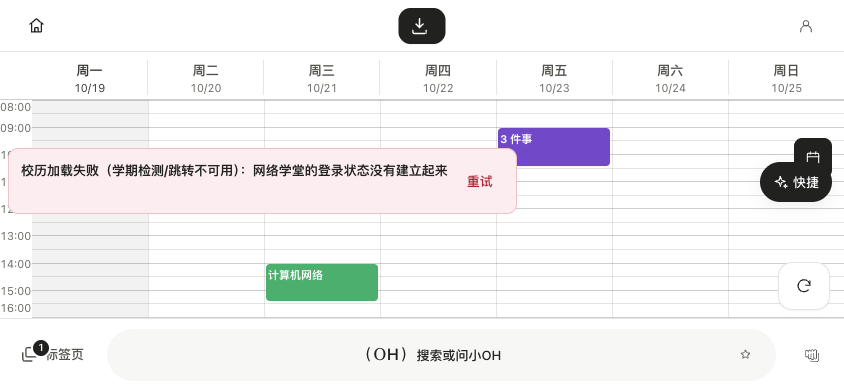
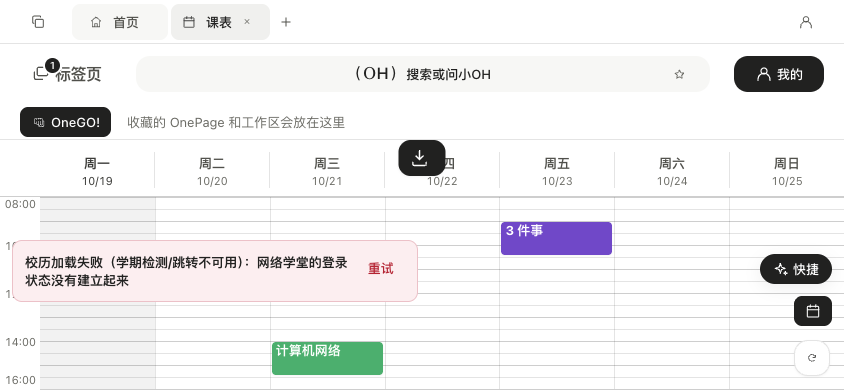
fix(mobile): 横屏手机切桌面形态；自由摆放默认 500%；缩放至 500%
用户：「这可不是电脑视图啊」「竖屏直接按 500% 开始」。
- platform.ts：横屏（宽>高且宽≥手机断点）不再算手机形态 → 整应用按桌面布局渲染
  （桌面标签条 ex-bbar/ex-tabstrip、自由画布、无阅读顺序开关），与电脑共用视图/缩放；
- 自由摆放默认 500%，ZOOM_MAX 扩到 5，ZOOM_STEPS 增加 5；
- 测试：platform 11 例、phone-board 20 条（500%、横屏桌面形态/世界坐标）、guard 全绿；
  layout / feedback-round2 回归通过。

diff --git a/apps/desktop/src/state/platform.ts b/apps/desktop/src/state/platform.ts
@@ -35,9 +35,6 @@ export function hasCoarsePointer(): boolean {
   return (navigator.maxTouchPoints ?? 0) > 0 || window.matchMedia?.("(pointer: coarse)").matches === true;
 }
 
-/** 横屏手机的宽度上限（iPhone 15 Pro Max 932 / Pixel 8 Pro 915，取 960 留余量）。 */
-const LANDSCAPE_PHONE_MAX_W = 960;
-
 const PHONE_FORCE: boolean | null = (() => {
   if (typeof window === "undefined") return null;
   if (!import.meta.env?.DEV) return null;
@@ -49,8 +46,9 @@ export function isPhoneViewport(): boolean {
   if (typeof window === "undefined") return false;
   if (PHONE_FORCE !== null) return PHONE_FORCE;
   const w = window.innerWidth;
-  const h = window.innerHeight;
   if (w < BP.medium) return true;
-  /* 宽而不高 = 横屏手机；但桌面窗压矮也这样，所以宽度必须压在手机上限内 */
-  return h < BP.medium && w <= LANDSCAPE_PHONE_MAX_W;
+  /* 2026-10-19 用户拍板：「手机横屏模式直接切换成和电脑一模一样视图」——
+     横屏（宽大于高、且宽已过手机断点）不再算手机形态，整应用按桌面布局渲染。
+     旧的「宽而不高 = 横屏手机」（若 w≤960）已退役；桌面窗压矮本来也按桌面走。 */
+  return false;
 }

diff --git a/apps/desktop/src/components/FreeBoard.tsx b/apps/desktop/src/components/FreeBoard.tsx
@@ -365,7 +365,7 @@ export function FreeBoard({ boardId = HOME_BOARD_ID, orientation = HOME_ORIENTAT
       const next = !prev;
       try { localStorage.setItem(PHONE_CANVAS_KEY, next ? "1" : "0"); } catch { /* 配额满：仅本次生效 */ }
       if (next) {
-        setZoom(3);
+        setZoom(5);
         window.setTimeout(() => sayRef.current("自由摆放：拖动卡片，点选后拉角点调大小"), 30);
       } else {
         sayRef.current("已回到阅读顺序");
@@ -589,7 +589,7 @@ export function FreeBoard({ boardId = HOME_BOARD_ID, orientation = HOME_ORIENTAT
   useEffect(() => {
     if (zoomBooted.current) return;
     zoomBooted.current = true;
-    if (phonePortrait && phoneCanvas && viewRef.current.z < 2.5) setZoomRef.current(3);
+    if (phonePortrait && phoneCanvas && viewRef.current.z < 4.5) setZoomRef.current(5);
   }, [phonePortrait, phoneCanvas]);
 
   useCanvasProbeImpl(viewKey, hostRef); // 临时探针（仅 dev）：定时上报，见函数头注释

diff --git a/apps/desktop/src/state/boardView.ts b/apps/desktop/src/state/boardView.ts
@@ -23,11 +23,11 @@ export interface BoardView {
 }
 
 export const ZOOM_MIN = 0.4;
-export const ZOOM_MAX = 4;
+export const ZOOM_MAX = 5;
 export const ZOOM_DEFAULT = 1;
 
 /** 「＋/－」按钮走的档位（捏合是连续的，不吸附到它）。 */
-export const ZOOM_STEPS: readonly number[] = [0.4, 0.5, 0.65, 0.8, 1, 1.25, 1.5, 2, 2.5, 3, 4];
+export const ZOOM_STEPS: readonly number[] = [0.4, 0.5, 0.65, 0.8, 1, 1.25, 1.5, 2, 2.5, 3, 4, 5];
 
 export const DEFAULT_VIEW: BoardView = { z: ZOOM_DEFAULT };
 
